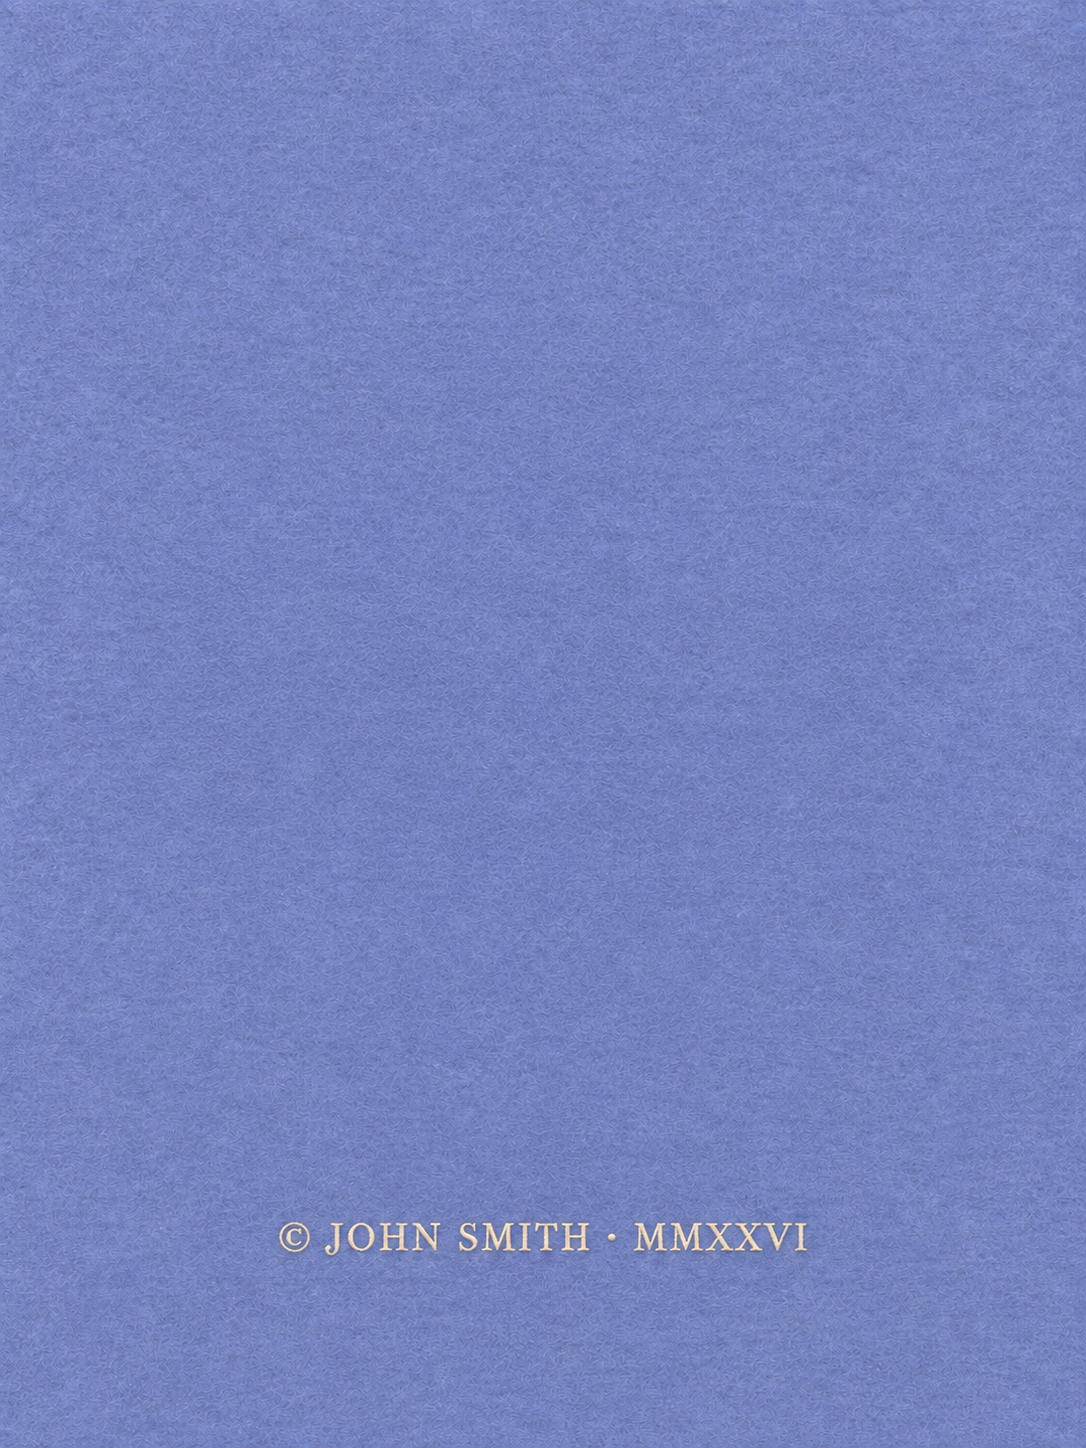
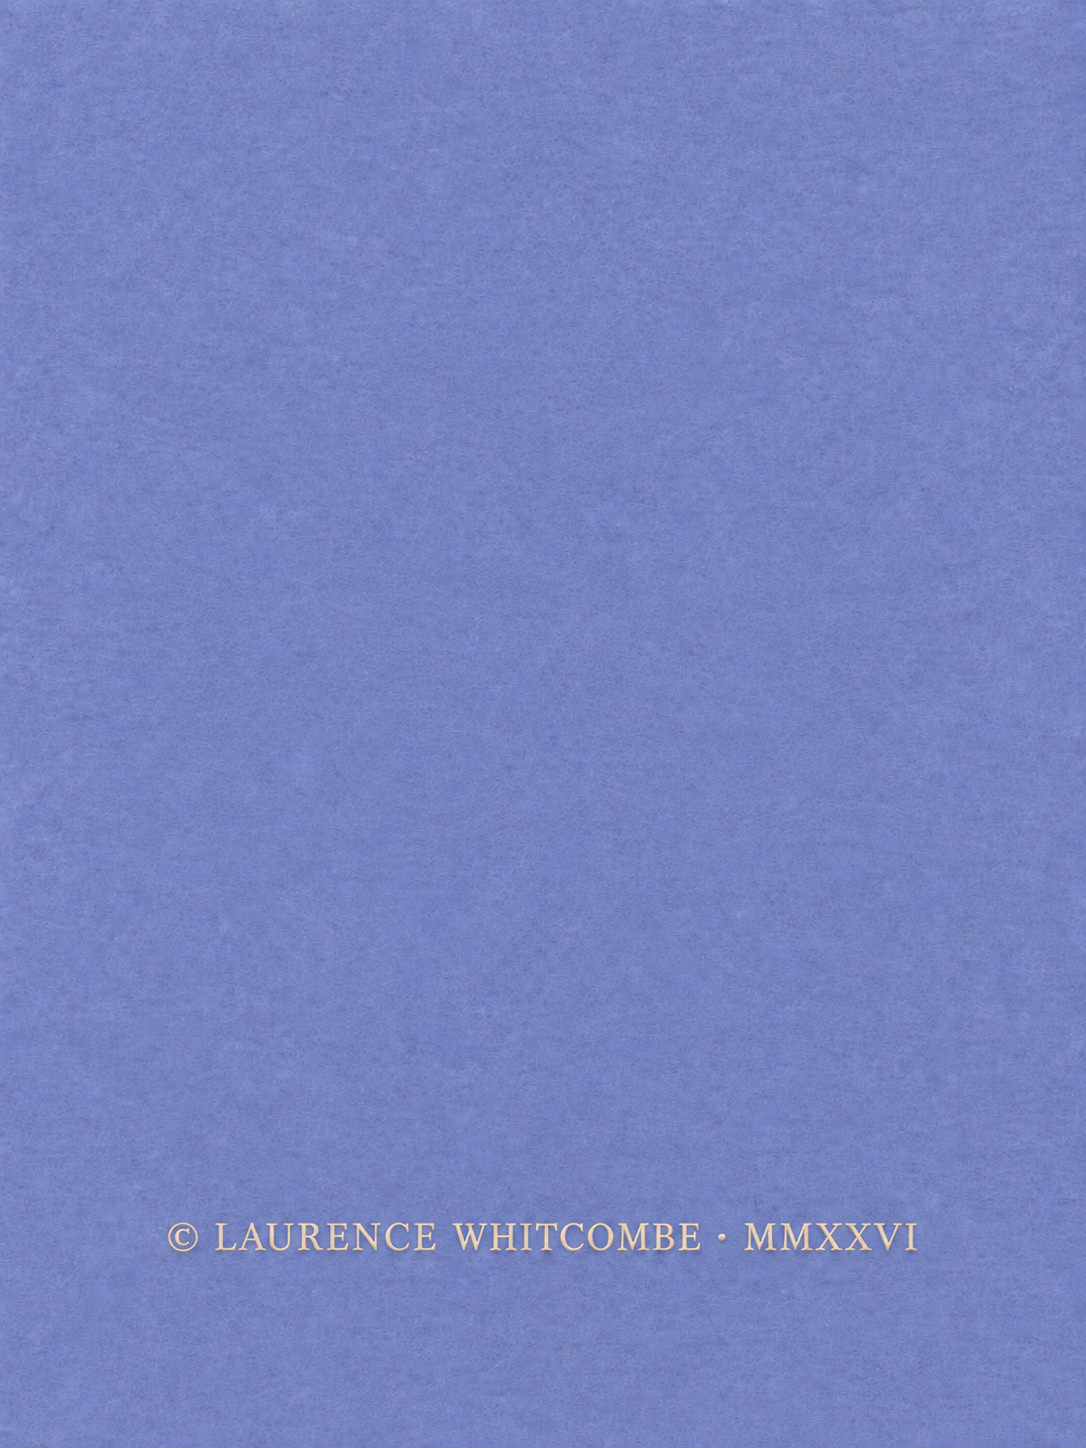
Publish Laurence Whitcombe author attribution and updated felt covers

Changed region(s): [[0.5166, 0.8391, 0.8508, 0.8702], [0.1519, 0.8391, 0.4862, 0.8702]]

diff --git a/index.html b/index.html
@@ -1,6 +1,6 @@
 <!doctype html>
 <html lang="en" data-theme="dark">
-<head><meta name="robots" content="noindex, nofollow, noimageindex, nosnippet"><meta charset="utf-8"><meta name="viewport" content="width=device-width,initial-scale=1"><meta name="theme-color" content="#151321"><meta name="description" content="Feltworld. A world of felt. A world of feeling. Explore a handmade world with Lumi, Kitty, Doggy and Nomie."><title>Feltworld · A world of felt. A world of feeling.</title><link rel="icon" href="favicon.ico" sizes="any"><link rel="icon" href="assets/favicon.svg" type="image/svg+xml"><link rel="icon" href="assets/favicon-32.png" type="image/png" sizes="32x32"><link rel="apple-touch-icon" href="assets/apple-touch-icon.png" sizes="180x180"><link rel="mask-icon" href="assets/safari-pinned-tab.svg" color="#775777"><link rel="manifest" href="site.webmanifest"><link rel="stylesheet" href="style.css"><link rel="stylesheet" href="polish.css"><link rel="stylesheet" href="storybook-v2.css"></head>
+<head><meta name="author" content="Laurence Whitcombe"><meta name="robots" content="noindex, nofollow, noimageindex, nosnippet"><meta charset="utf-8"><meta name="viewport" content="width=device-width,initial-scale=1"><meta name="theme-color" content="#151321"><meta name="description" content="Feltworld. A world of felt. A world of feeling. Explore a handmade world with Lumi, Kitty, Doggy and Nomie."><title>Feltworld · A world of felt. A world of feeling.</title><link rel="icon" href="favicon.ico" sizes="any"><link rel="icon" href="assets/favicon.svg" type="image/svg+xml"><link rel="icon" href="assets/favicon-32.png" type="image/png" sizes="32x32"><link rel="apple-touch-icon" href="assets/apple-touch-icon.png" sizes="180x180"><link rel="mask-icon" href="assets/safari-pinned-tab.svg" color="#775777"><link rel="manifest" href="site.webmanifest"><link rel="stylesheet" href="style.css"><link rel="stylesheet" href="polish.css"><link rel="stylesheet" href="storybook-v2.css"></head>
 <body>
   <header class="topbar"><a class="brand" href="#" id="home-link" aria-label="Feltworld home"><img class="brand-mark" src="assets/brand-book.svg" width="44" height="44" alt=""><span><span data-brand>Feltworld</span><span class="brand-sub" data-sentiment>A world of felt. A world of feeling.</span></span></a><nav aria-label="Game tools"><button class="icon-button" id="theme-button" aria-label="Switch to light mode">☀</button><button class="nav-button" id="map-button"><span aria-hidden="true">⌘</span> Story map</button><button class="nav-button" id="journal-button"><span aria-hidden="true">▤</span> Your choices</button><button class="sound-button" id="sound-button" aria-pressed="true" title="Toggle short sound effects"><span aria-hidden="true">◖</span> <span>Effects on</span></button><button class="icon-button" id="settings-button" aria-label="Settings">⚙</button></nav></header>
   <main id="app" tabindex="-1"></main>

diff --git a/picture-book.html b/picture-book.html
@@ -1,6 +1,6 @@
 <!doctype html>
 <html lang="en" data-theme="dark">
-<head><meta name="robots" content="noindex, nofollow, noimageindex, nosnippet"><meta charset="utf-8"><meta name="viewport" content="width=device-width,initial-scale=1"><meta name="theme-color" content="#171321"><meta name="description" content="Turn the pages of Feltworld. Explore the illustrations and play with little paper friends."><title>Feltworld · The picture book</title><link rel="icon" href="favicon.ico" sizes="any"><link rel="icon" href="assets/favicon.svg" type="image/svg+xml"><link rel="apple-touch-icon" href="assets/apple-touch-icon.png"><link rel="manifest" href="site.webmanifest"><link rel="stylesheet" href="picture-book.css"></head>
+<head><meta name="author" content="Laurence Whitcombe"><meta name="robots" content="noindex, nofollow, noimageindex, nosnippet"><meta charset="utf-8"><meta name="viewport" content="width=device-width,initial-scale=1"><meta name="theme-color" content="#171321"><meta name="description" content="Turn the pages of Feltworld. Explore the illustrations and play with little paper friends."><title>Feltworld · The picture book</title><link rel="icon" href="favicon.ico" sizes="any"><link rel="icon" href="assets/favicon.svg" type="image/svg+xml"><link rel="apple-touch-icon" href="assets/apple-touch-icon.png"><link rel="manifest" href="site.webmanifest"><link rel="stylesheet" href="picture-book.css"></head>
 <body>
   <header class="book-header"><a class="brand" href="index.html"><img src="assets/brand-book.svg" width="46" height="46" alt=""><span data-brand>Feltworld</span></a><a class="back-game" href="index.html">Back to the game <span aria-hidden="true">↗</span></a></header>
   <main class="reader">

diff --git a/flipbook/index.html b/flipbook/index.html
@@ -6,6 +6,7 @@
 <meta name="robots" content="noindex,nofollow,noimageindex,nosnippet">
 <meta name="color-scheme" content="dark">
 <meta name="theme-color" content="#17191c">
+<meta name="author" content="Laurence Whitcombe">
 <link rel="icon" href="favicon.svg" type="image/svg+xml">
 <title>A World of Felt — Vol. I: Doggy!</title>
 <style>
@@ -59,9 +60,9 @@ const reduced=matchMedia('(prefers-reduced-motion: reduce)');
 let index=0,turn=null,pointer=null,animating=false;
 const revision='20261002-mansion-home-fresh-v1';
 const isCover=i=>scenes[i][0].startsWith('cover-');
-const coverPath=i=>'covers/'+(i===0?'front-cover-v1.png':'back-cover-v1.png')+'?v=periwinkle-1';
+const coverPath=i=>'covers/'+(i===0?'front-cover-v1.png':'back-cover-v1.png')+'?v=laurence-whitcombe-20261003';
 const path=(i,side)=>`${scenes[i][0]}-part-${side==='left'?1:2}-${side}.png?v=${revision}`;
-const img=(i,side)=>{const e=new Image();e.src=isCover(i)?coverPath(i):path(i,side);e.alt=isCover(i)?(i===0?'A World of Felt. Vol. I: Doggy! By John Smith.':'Copyright John Smith, 2026.'):`${scenes[i][1]}, ${side} page`;e.draggable=false;return e};
+const img=(i,side)=>{const e=new Image();e.src=isCover(i)?coverPath(i):path(i,side);e.alt=isCover(i)?(i===0?'A World of Felt. Vol. I: Doggy! By Laurence Whitcombe.':'Copyright Laurence Whitcombe, 2026.'):`${scenes[i][1]}, ${side} page`;e.draggable=false;return e};
 const storageKey='felt-story-tape-draft-v2';
 let draftEdits={};
 try{const saved=JSON.parse(localStorage.getItem(storageKey)||'{}');if(saved&&typeof saved==='object'&&!Array.isArray(saved))draftEdits=saved;}catch{}

diff --git a/character-review/index.html b/character-review/index.html
@@ -1,6 +1,6 @@
 <!doctype html>
 <html lang="en">
-<head>
+<head><meta name="author" content="Laurence Whitcombe">
   <meta charset="utf-8">
   <meta name="viewport" content="width=device-width, initial-scale=1">
   <meta name="robots" content="noindex,nofollow,noimageindex,nosnippet">
